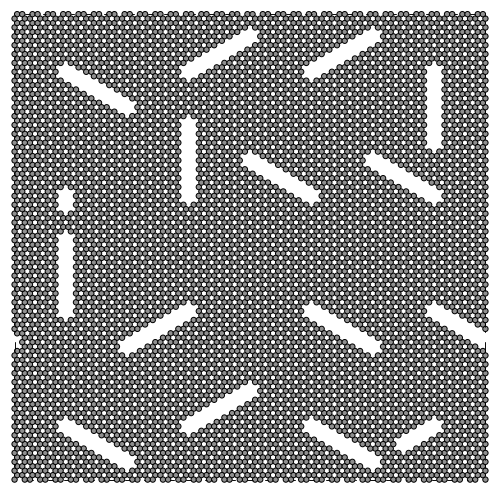
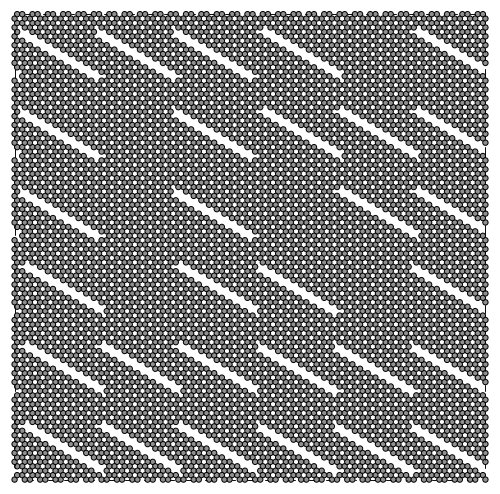
made RW dataset draft and updated README LOG

diff --git a/config_builder/build_config.py b/config_builder/build_config.py
@@ -428,49 +428,103 @@ def RW_dataset(shape = (62,106)):
                 'avoid_unvalid': False,
                 'grid_start': True,
                 'center_elem': True,
-                'avoid_clustering': 10,
+                'avoid_clustering': 5,
                 'centering': False }
-    # --- 6 Directions (Grid start) --- #
-    ## Fixed directions
+    
+    # --- 6 Directions  --- #
+    ## Grid start Fixed directions
     # Thin 
     param = {**param, 'num_walks': 30, 'max_steps': 20, 'min_dis': 3, 'RN6': False, 'center_elem': False, 'centering': True}
-    # SET.append(RW_Generator(**{**param, 'bias': [(1, 1), 1]}))
-    # SET.append(RW_Generator(**{**param, 'bias': [(1, -1), 1]}))
-    # SET.append(RW_Generator(**{**param, 'max_steps': 10, 'bias': [(0, 1), 1]}))
+    SET.append(RW_Generator(**{**param, 'bias': [(1, 1), 1]}))
+    SET.append(RW_Generator(**{**param, 'bias': [(1, -1), 1]}))
+    SET.append(RW_Generator(**{**param, 'max_steps': 10, 'bias': [(0, 1), 1]}))
     
     # Thick
     param = {**param, 'num_walks': 20, 'max_steps': 15, 'center_elem': 'full'}
-    # SET.append(RW_Generator(**{**param, 'bias': [(1, 1), 1]}))
-    # SET.append(RW_Generator(**{**param, 'bias': [(1, -1), 1]}))
-    # SET.append(RW_Generator(**{**param, 'max_steps': 5, 'bias': [(0, 1), 1]}))
+    SET.append(RW_Generator(**{**param, 'bias': [(1, 1), 1]}))
+    SET.append(RW_Generator(**{**param, 'bias': [(1, -1), 1]}))
+    SET.append(RW_Generator(**{**param, 'max_steps': 5, 'bias': [(0, 1), 1]}))
     
-    ## RN directions 
+    ## Grid start, RN directions 
     # Thin 
     param = {**param, 'bias': [(1, -1), 1], 'RN6': True, 'center_elem': False}
-    # SET.append(RW_Generator(**{**param, 'num_walks': 16, 'max_steps': 20}))
-    # SET.append(RW_Generator(**{**param, 'num_walks': 25, 'max_steps': 15}))
-    # SET.append(RW_Generator(**{**param, 'num_walks': 49, 'max_steps': 12}))
-    # SET.append(RW_Generator(**{**param, 'num_walks': 64, 'max_steps': 8}))
-    # SET.append(RW_Generator(**{**param, 'num_walks': 81, 'max_steps': 8}))
+    SET.append(RW_Generator(**{**param, 'num_walks': 16, 'max_steps': 20}))
+    SET.append(RW_Generator(**{**param, 'num_walks': 25, 'max_steps': 15}))
+    SET.append(RW_Generator(**{**param, 'num_walks': 49, 'max_steps': 12}))
+    SET.append(RW_Generator(**{**param, 'num_walks': 64, 'max_steps': 8}))
+    SET.append(RW_Generator(**{**param, 'num_walks': 81, 'max_steps': 8}))
     
     # Medium (center_elem = intersect)
     param = {**param,  'center_elem': 'intersect'}
-    # SET.append(RW_Generator(**{**param, 'num_walks': 16, 'max_steps': 10}))
-    # SET.append(RW_Generator(**{**param, 'num_walks': 25, 'max_steps': 8}))
-    # SET.append(RW_Generator(**{**param, 'num_walks': 49, 'max_steps': 5}))
+    SET.append(RW_Generator(**{**param, 'num_walks': 16, 'max_steps': 10}))
+    SET.append(RW_Generator(**{**param, 'num_walks': 25, 'max_steps': 8}))
+    SET.append(RW_Generator(**{**param, 'num_walks': 49, 'max_steps': 5}))
     
     # Thick (center_elem = full)
     param = {**param,  'center_elem': 'full'}
-    # SET.append(RW_Generator(**{**param, 'num_walks': 16, 'max_steps': 10}))
-    # SET.append(RW_Generator(**{**param, 'num_walks': 25, 'max_steps': 8}))
-    # SET.append(RW_Generator(**{**param, 'num_walks': 49, 'max_steps': 5}))
+    SET.append(RW_Generator(**{**param, 'num_walks': 16, 'max_steps': 10}))
+    SET.append(RW_Generator(**{**param, 'num_walks': 25, 'max_steps': 8}))
+    SET.append(RW_Generator(**{**param, 'num_walks': 49, 'max_steps': 5}))
     
     
-    # TODO --- More free RW  --- XXX #
-    param = {**param, 'min_dis': 4, 'bias': [(1, -1), 0], 'RN6': False, 'grid_start': False, 'center_elem': False, 'centering': False}
+    # --- More traditional looking RW --- #
+    param = {**param, 'min_dis': 4, 'bias': [(0, 1), 0], 'RN6': False, 'grid_start': False, 'avoid_unvalid': True, 'grid_start': True, 'center_elem': False, 'centering': False}
     
+    ## Free
+    # Thin, avoid each other
+    SET.append(RW_Generator(**{**param, 'num_walks': 30, 'max_steps': 20}))
+    SET.append(RW_Generator(**{**param, 'num_walks': 50, 'max_steps': 20}))
+    SET.append(RW_Generator(**{**param, 'num_walks': 70, 'max_steps': 20}))
+    SET.append(RW_Generator(**{**param, 'num_walks': 100, 'max_steps': 20}))
+    
+    SET.append(RW_Generator(**{**param, 'num_walks': 50, 'max_steps': 50}))
+    SET.append(RW_Generator(**{**param, 'num_walks': 50, 'max_steps': 70}))
+    SET.append(RW_Generator(**{**param, 'num_walks': 50, 'max_steps': 100}))
+    
+    
+    ## Slight bias
+    # Thin, avoid each other
+    param = {**param, 'min_dis': 4, 'RN6': False, 'grid_start': False, 'grid_start': False, 'avoid_unvalid': True, 'center_elem': False, 'centering': False}
+    SET.append(RW_Generator(**{**param, 'num_walks': 32, 'max_steps': 30, 'bias': [(0, 1), 0.4]}))
+    SET.append(RW_Generator(**{**param, 'num_walks': 32, 'max_steps': 30, 'bias': [(1, 0), 0.4]}))
+    SET.append(RW_Generator(**{**param, 'num_walks': 32, 'max_steps': 30, 'bias': [(1, 1), 0.4]}))
+    SET.append(RW_Generator(**{**param, 'num_walks': 32, 'max_steps': 30, 'bias': [(1, -1), 0.4]}))
+    
+    # Thick, avoid each other
+    param = {**param, 'center_elem': 'full'}
+    SET.append(RW_Generator(**{**param, 'num_walks': 16, 'max_steps': 30, 'bias': [(0, 1), 0.4]}))
+    SET.append(RW_Generator(**{**param, 'num_walks': 16, 'max_steps': 30, 'bias': [(1, 0), 0.4]}))
+    SET.append(RW_Generator(**{**param, 'num_walks': 16, 'max_steps': 30, 'bias': [(1, 1), 0.4]}))
+    SET.append(RW_Generator(**{**param, 'num_walks': 16, 'max_steps': 30, 'bias': [(1, -1), 0.4]}))
+    
+    
+    ## High porosity, medium biased
+    param = {**param, 'min_dis': 5, 'center_elem': 'full'}
+    SET.append(RW_Generator(**{**param, 'num_walks': 32, 'max_steps': 30, 'bias': [(0, -1), 0.5]}))
+    SET.append(RW_Generator(**{**param, 'num_walks': 32, 'max_steps': 30, 'bias': [(-1, 1), 0.5]}))
+    SET.append(RW_Generator(**{**param, 'num_walks': 32, 'max_steps': 30, 'bias': [(-1, 0), 0.5]}))
+    
+    param = {**param, 'min_dis': 4, 'center_elem': 'full'}
+    SET.append(RW_Generator(**{**param, 'num_walks': 32, 'max_steps': 30, 'bias': [(0, -1), 0.5]}))
+    SET.append(RW_Generator(**{**param, 'num_walks': 32, 'max_steps': 30, 'bias': [(-1, 1), 0.5]}))
+    SET.append(RW_Generator(**{**param, 'num_walks': 32, 'max_steps': 30, 'bias': [(-1, 0), 0.5]}))
+    
+    param = {**param, 'min_dis': 3, 'center_elem': 'full'}
+    SET.append(RW_Generator(**{**param, 'num_walks': 32, 'max_steps': 30, 'bias': [(0, -1), 0.5]}))
+    SET.append(RW_Generator(**{**param, 'num_walks': 32, 'max_steps': 30, 'bias': [(-1, 1), 0.5]}))
+    SET.append(RW_Generator(**{**param, 'num_walks': 32, 'max_steps': 30, 'bias': [(-1, 0), 0.5]}))
+    
+   
+    
+    
+    
+    # Free
     # Thin
-    SET.append(RW_Generator(**{**param, 'num_walks': 40, 'max_steps': 20}))
+    # SET.append(RW_Generator(**{**param, 'num_walks': 32, 'max_steps': 20}))
+    
+    
+    
+    # SET.append(RW_Generator(**{**param, 'num_walks': 64, 'max_steps': 20}))
     
     # SET.append(RW_Generator(size = (62, 106), num_walks = 32, max_steps = 12, min_dis = 4, bias = [(0, 1), 0], RN6 = False, periodic = True, avoid_unvalid = True, grid_start = True, center_elem = False))
     

diff --git a/README.md b/README.md
@@ -229,6 +229,12 @@
 - Submitted sims with linear increase of F_N applied to pull blocks and whole sheet respectively
 - Wrote code for simultaneously loading and stretching and submitted test with pop_1_7_5
 - Wrote code for ML framework and did simple training with LeNet on dummy data.
+- Made a flexible class for VGGNet type 
+- Updated random walk code and made a draft dataset of 40 RW-styles where each can potentially be run multiple times due to the inherent randomness of it. 
+
+#### Week 9 (27/02/2023 - 05/03/2023) - Working from Pisa
+- 
+
 
 
 ## Things to remember 
